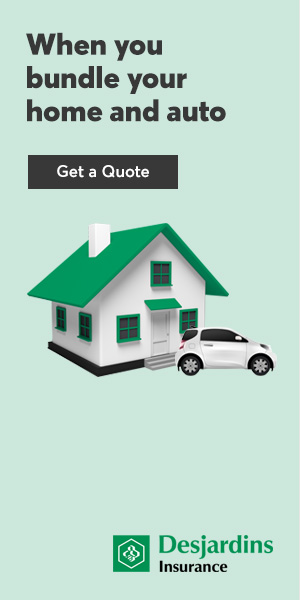
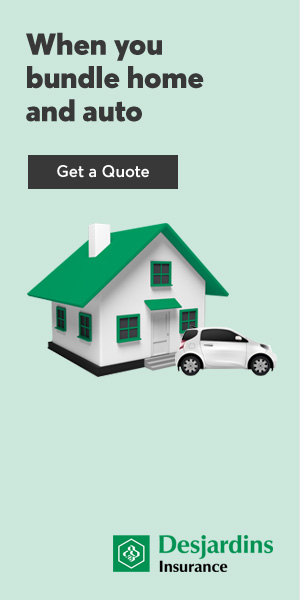
ref

Changed region(s): [[0.09, 0.09, 0.75, 0.21]]

diff --git a/docs/deploy/multiline_300x600/index.html b/docs/deploy/multiline_300x600/index.html
@@ -1,7 +1,7 @@
 <!DOCTYPE html>
 <html>
 <head>
-<title>Created: Jan 10, 4:17</title>
+<title>Created: Jan 10, 4:21</title>
 <style>#banner{opacity: 0;}</style>
 <meta http-equiv="Content-Type" content="text/html; charset=utf-8">
 <meta name="ad.size" content="width=300, height=600">
@@ -22,7 +22,7 @@
 </div>
 <div class="frame frame2">
 
-<p class="t t2">When you bundle<br>home and auto<br></p>
+<p class="t t2">When you<br>bundle home<br>and auto<br></p>
 <div class="cta" id="cta">Get a Quote</div>
 </div>
[1 lines of base64/hex data omitted]

diff --git a/dev/multiline_300x600/index.html b/dev/multiline_300x600/index.html
@@ -27,7 +27,7 @@
 	</div>	
 	<div class="frame frame2">
 		<!-- <img class="trace" src="./frames/f2.jpg" alt="" inline> -->
-		<p class="t t2">When you bundle<br/>home and auto<br/></p>
+		<p class="t t2">When you<br/>bundle home<br/>and auto<br/></p>
 		<div class="cta" id="cta">Get a Quote</div>
 	</div>
 
